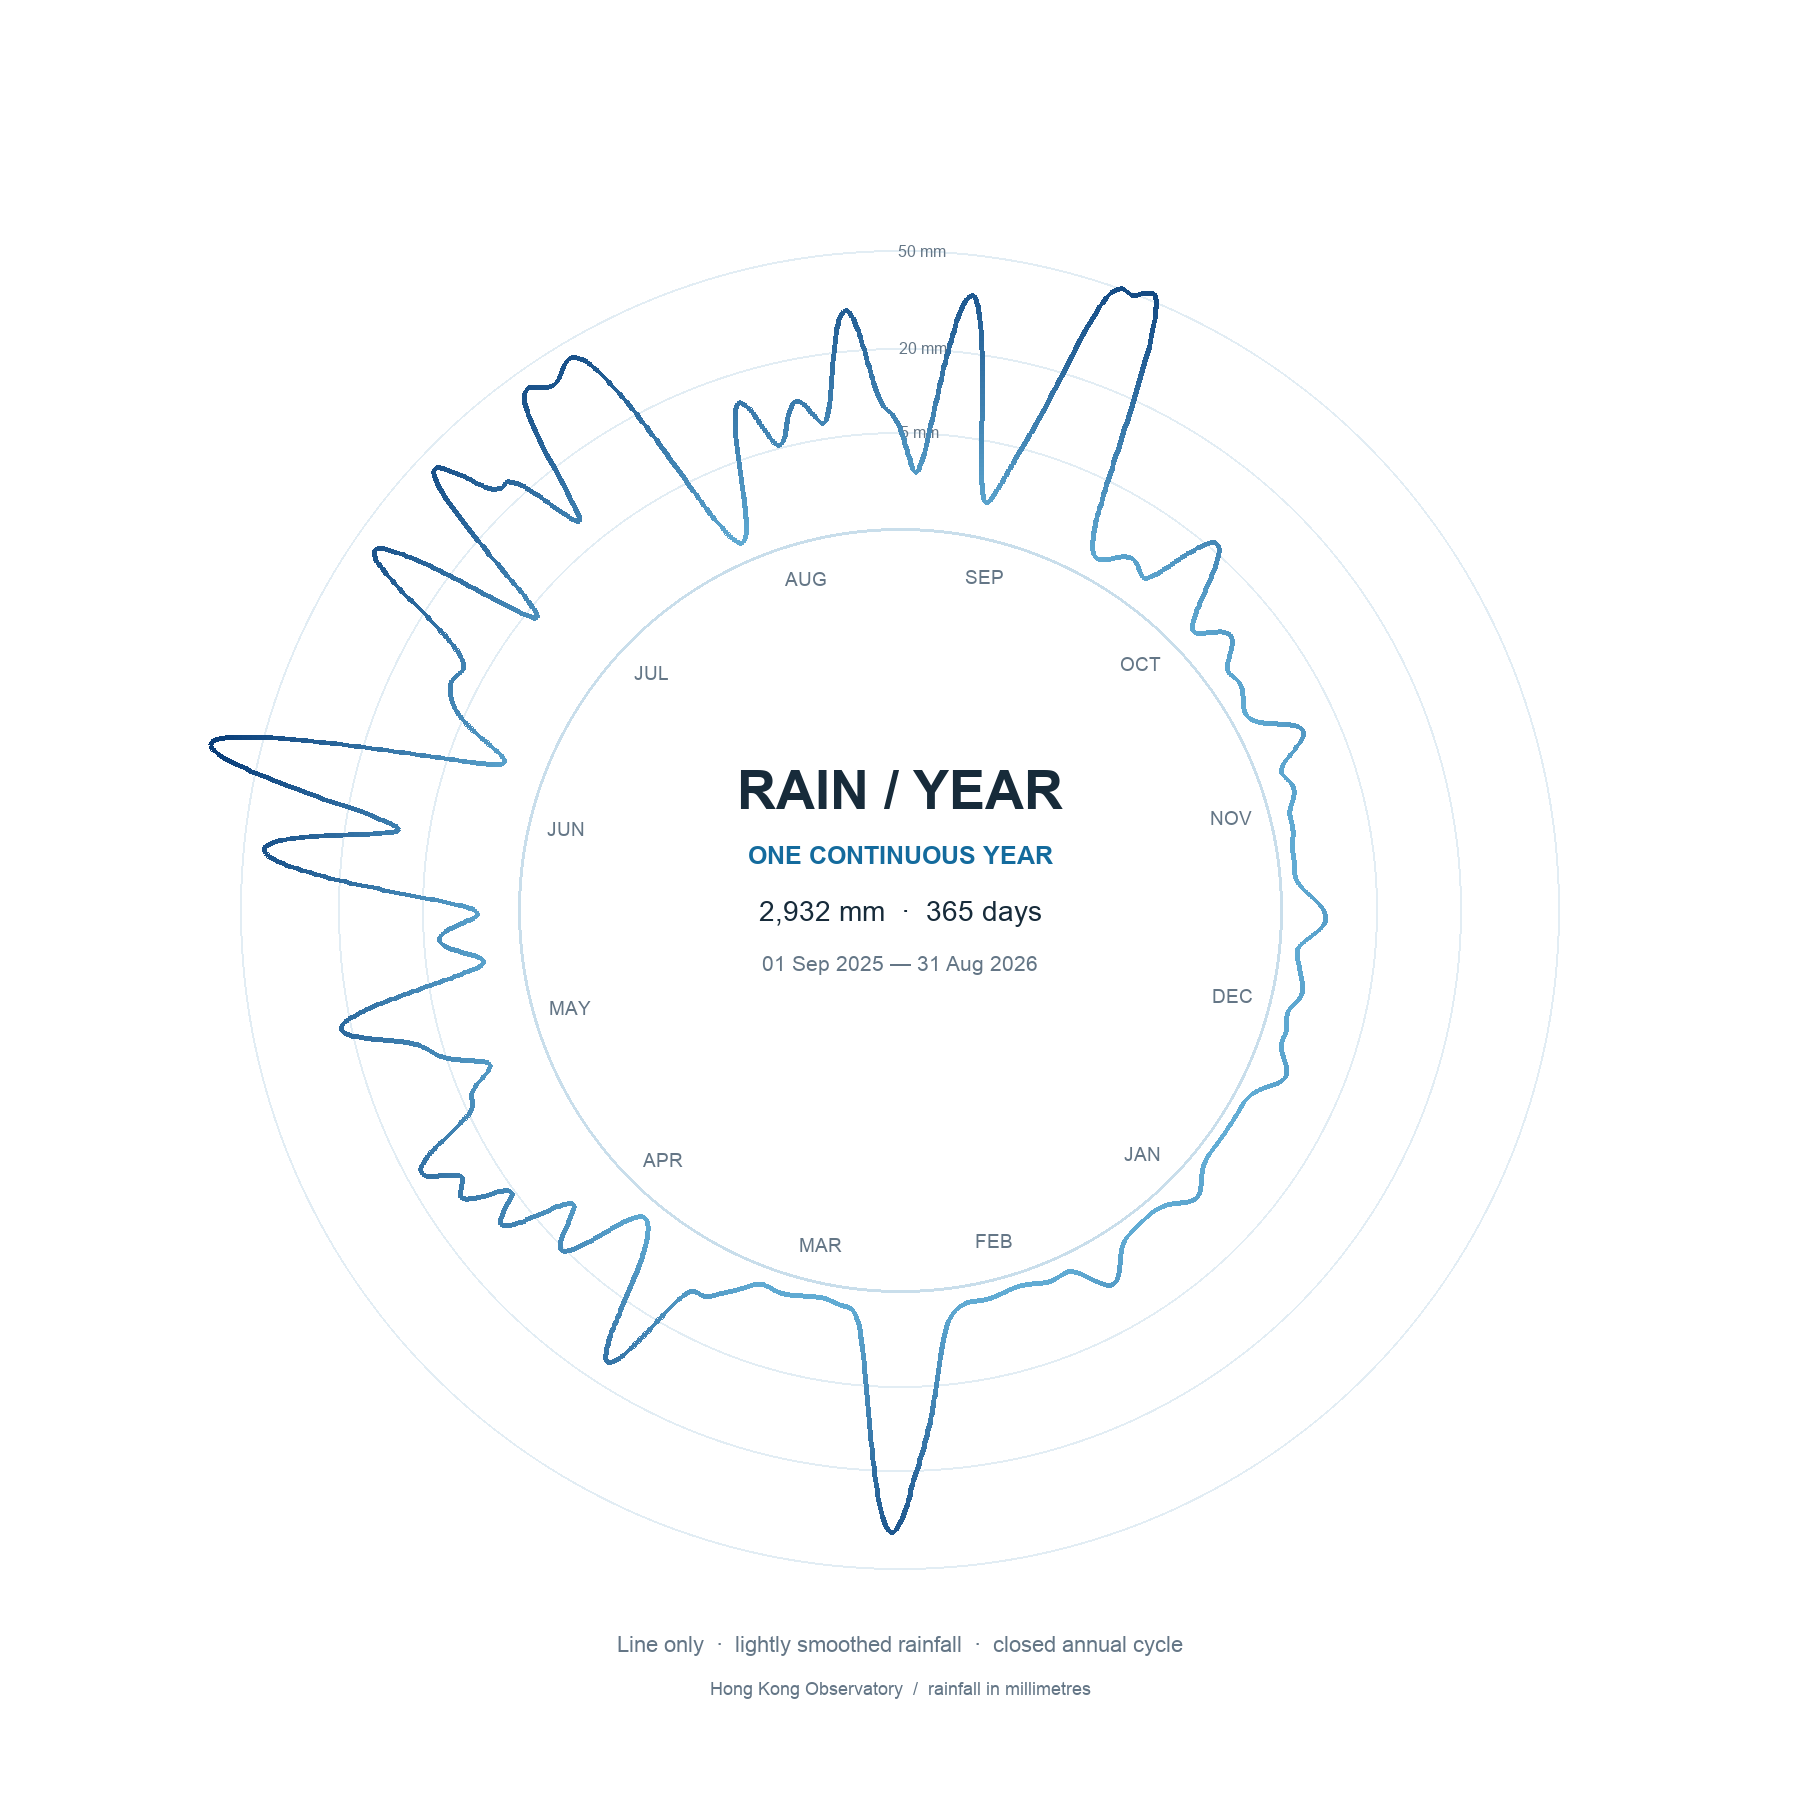
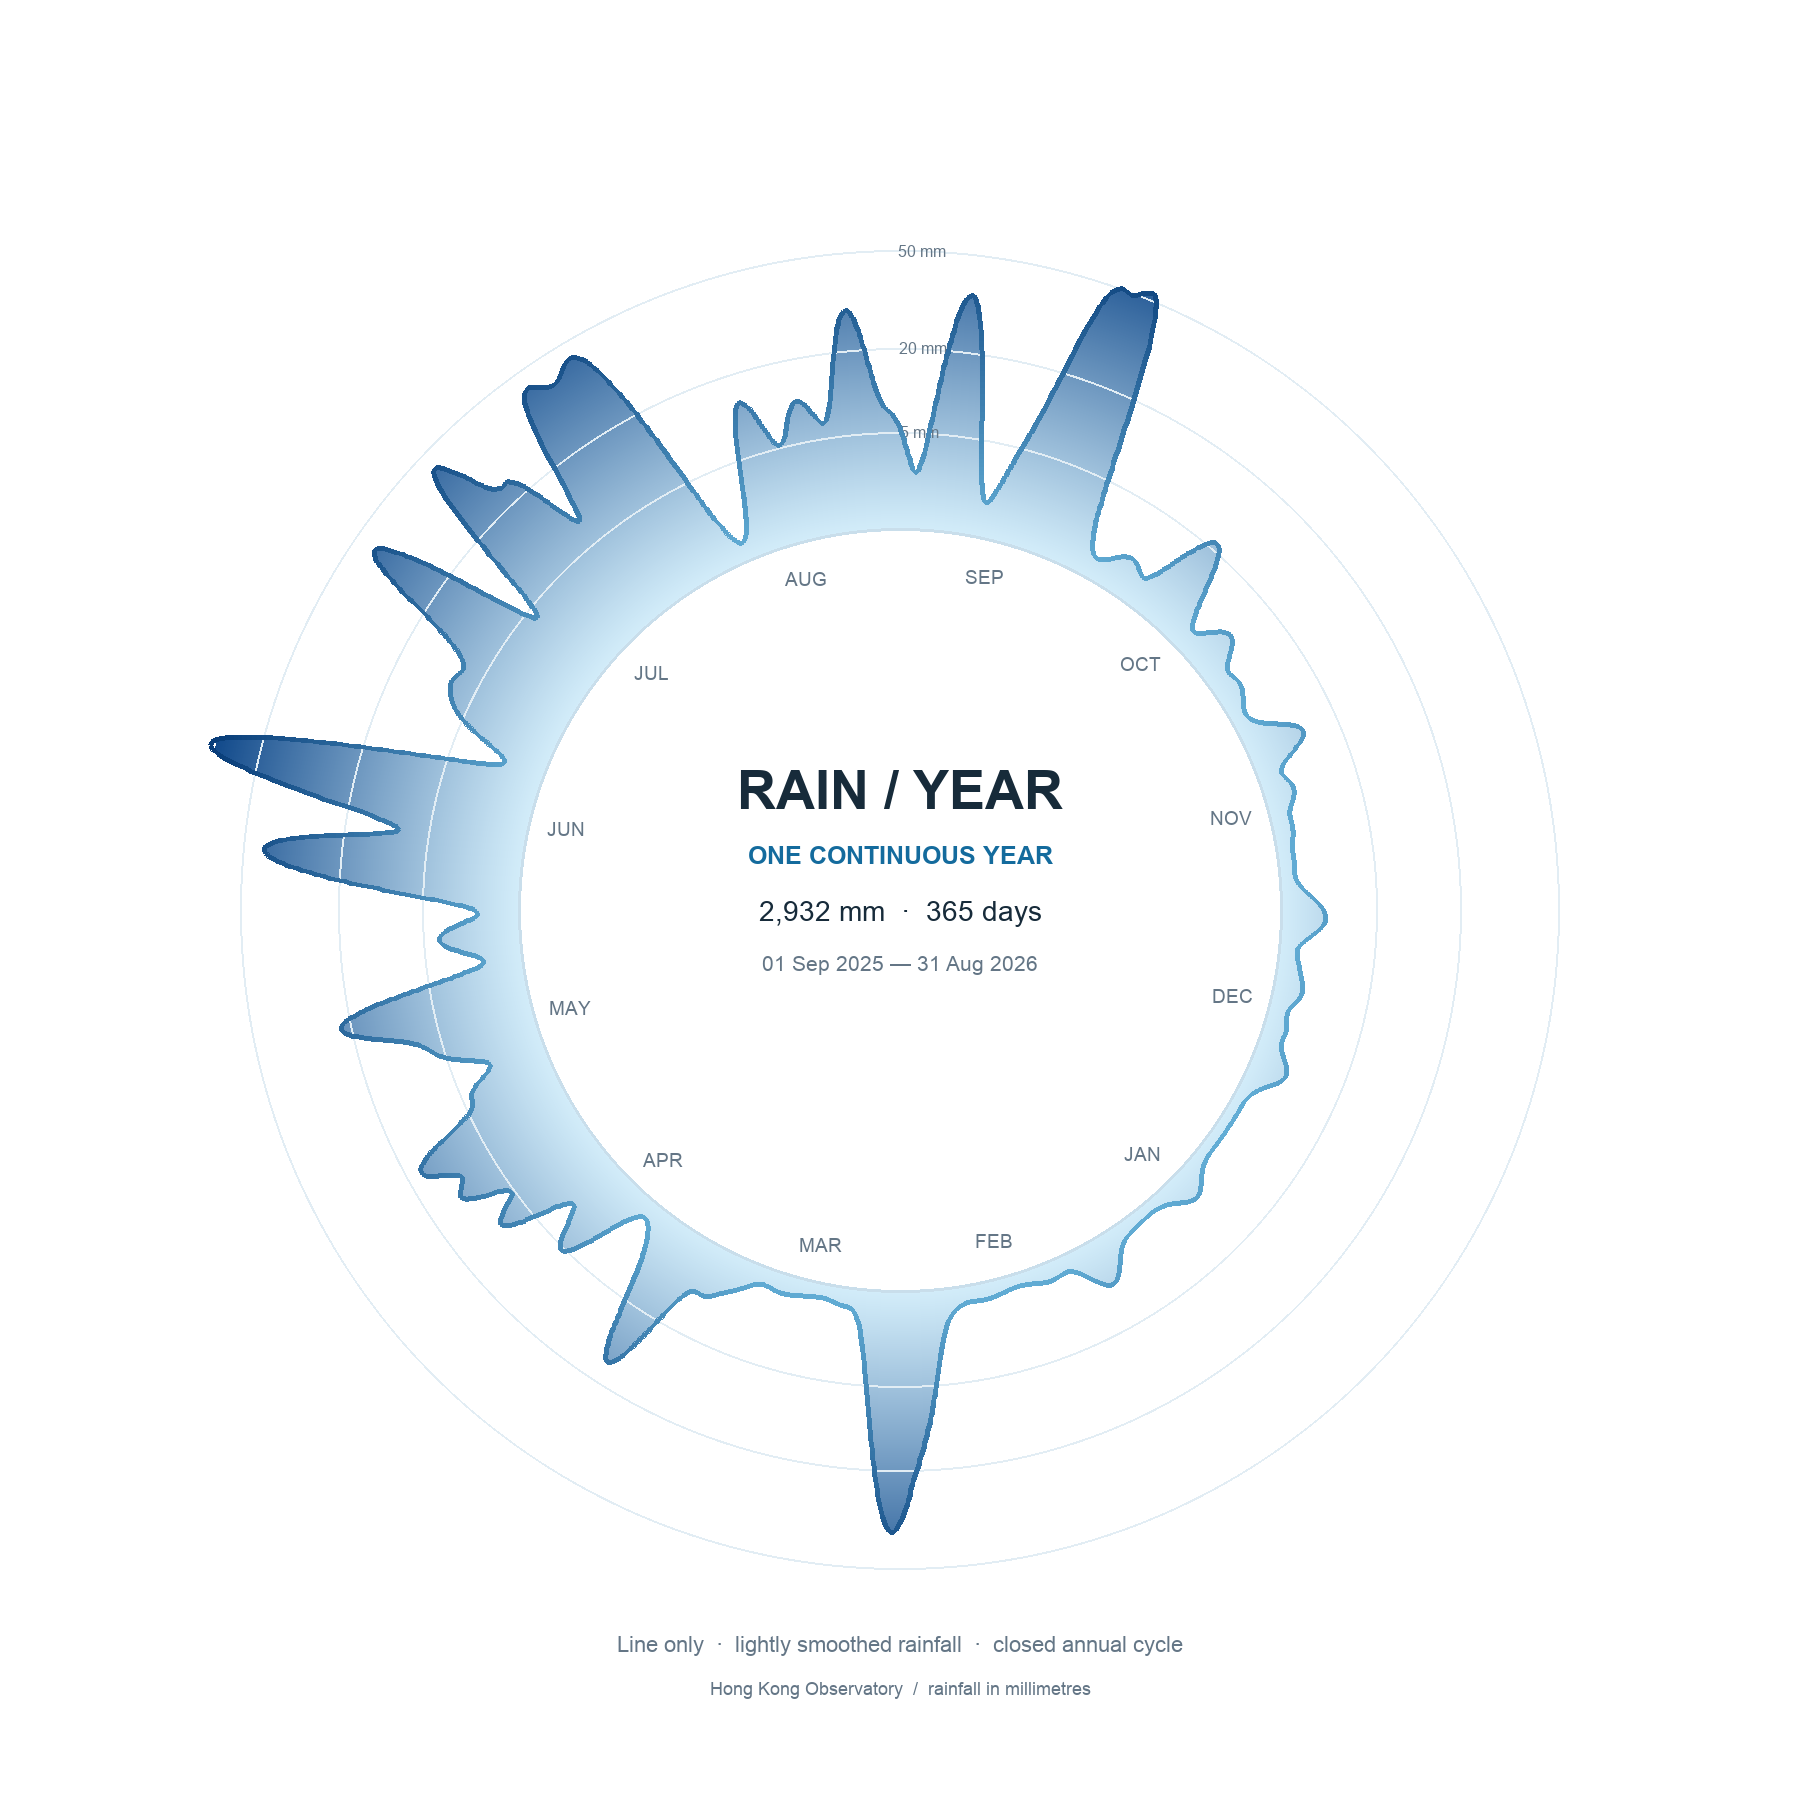
Fill closed rainfall curve with height-based blue gradient

Changed region(s): [[0.1244, 0.1556, 0.7467, 0.84], [0.6222, 0.6222, 0.6844, 0.6844], [0.56, 0.6844, 0.6222, 0.7156]]

diff --git a/line_plot.py b/line_plot.py
@@ -77,7 +77,33 @@ radii = [BASE + 12 + LENGTH * math.sqrt(amount / largest) for amount in averages
 slopes = [(radii[(index + 1) % len(radii)] - radii[(index - 1) % len(radii)]) / 2
           for index in range(len(radii))]
 
+curve_points = [point(0, radii[0])]
+for index in range(len(radii)):
+    next_index = (index + 1) % len(radii)
+    for step in range(1, 11):
+        t = step / 10
+        t2, t3 = t * t, t * t * t
+        radius = ((2 * t3 - 3 * t2 + 1) * radii[index]
+                  + (t3 - 2 * t2 + t) * slopes[index]
+                  + (-2 * t3 + 3 * t2) * radii[next_index]
+                  + (t3 - t2) * slopes[next_index])
+        curve_points.append(point(index + t, radius))
+
 canvas = Image.new("RGB", (SIZE, SIZE), (255, 255, 255))
+fill_mask = Image.new("L", (SIZE, SIZE), 0)
+mask_draw = ImageDraw.Draw(fill_mask)
+mask_draw.polygon(curve_points, fill=255)
+mask_draw.ellipse((CX - BASE, CY - BASE, CX + BASE, CY + BASE), fill=0)
+
+# Colour is tied to radial height: a pale inner ring deepens towards high peaks.
+gradient = Image.new("RGB", (SIZE, SIZE), (255, 255, 255))
+gradient_draw = ImageDraw.Draw(gradient)
+for radius in range(BASE + 12 + LENGTH, BASE - 1, -1):
+    height = (radius - BASE) / (LENGTH + 12)
+    colour = mix((210, 236, 249), (18, 74, 139), height ** 1.1)
+    gradient_draw.ellipse((CX - radius, CY - radius, CX + radius, CY + radius),
+                          fill=colour)
+canvas.paste(gradient, (0, 0), fill_mask)
 draw = ImageDraw.Draw(canvas)
 
 for amount in (5, 20, 50):
@@ -92,21 +118,13 @@ for amount in (5, 20, 50):
 draw.ellipse((CX - BASE, CY - BASE, CX + BASE, CY + BASE),
              outline=(201, 222, 235), width=3)
 
-previous = point(0, radii[0])
-for index in range(len(radii)):
-    next_index = (index + 1) % len(radii)
-    for step in range(1, 11):
-        t = step / 10
-        t2, t3 = t * t, t * t * t
-        radius = ((2 * t3 - 3 * t2 + 1) * radii[index]
-                  + (t3 - 2 * t2 + t) * slopes[index]
-                  + (-2 * t3 + 3 * t2) * radii[next_index]
-                  + (t3 - t2) * slopes[next_index])
-        current = point(index + t, radius)
-        strength = max(0.0, min(1.0, (radius - BASE - 12) / LENGTH))
-        colour = mix((98, 173, 213), (9, 61, 121), strength ** 0.9)
-        draw.line((previous, current), fill=colour, width=5)
-        previous = current
+previous = curve_points[0]
+for current in curve_points[1:]:
+    radius = math.dist(current, (CX, CY))
+    strength = max(0.0, min(1.0, (radius - BASE - 12) / LENGTH))
+    colour = mix((98, 173, 213), (9, 61, 121), strength ** 0.9)
+    draw.line((previous, current), fill=colour, width=5)
+    previous = current
 
 first = 0
 while first < len(days):

diff --git a/PROCESS.md b/PROCESS.md
@@ -2,7 +2,7 @@
 
 ## Tools
 
-I used Codex to inspect the committed Hong Kong Observatory CSV, develop and revise the Python plot, build a month-by-month interactive version, and check the result against the assignment requirements. I wanted a more artistic chart and then asked for a white background and an all-blue scale in which taller marks are darker. For the website, I asked that the circle start empty and reveal a month's bars from their roots when someone hovers nearby. After reviewing a curved-line preview, I chose straight bars and asked Codex to add a Show All option so the whole year can appear at once. I later asked for a separate smooth line connecting the daily bar tips while leaving their measured heights unchanged, then decided to remove that line from the static image and keep its bars clear. I also asked for a second, line-only image: after seeing an overly smooth draft, I requested a more detailed closed curve. I reviewed the generated images and gave feedback on their appearance. Codex used `uv` to run the scripts and the assignment's checker to verify the repository structure.
+I used Codex to inspect the committed Hong Kong Observatory CSV, develop and revise the Python plot, build a month-by-month interactive version, and check the result against the assignment requirements. I wanted a more artistic chart and then asked for a white background and an all-blue scale in which taller marks are darker. For the website, I asked that the circle start empty and reveal a month's bars from their roots when someone hovers nearby. After reviewing a curved-line preview, I chose straight bars and asked Codex to add a Show All option so the whole year can appear at once. I later asked for a separate smooth line connecting the daily bar tips while leaving their measured heights unchanged, then decided to remove that line from the static image and keep its bars clear. I also asked for a second, line-only image: after seeing an overly smooth draft, I requested a more detailed closed curve and then a blue fill that darkens with height. I reviewed the generated images and gave feedback on their appearance. Codex used `uv` to run the scripts and the assignment's checker to verify the repository structure.
 
 ## Kept
 

diff --git a/README.md b/README.md
@@ -16,7 +16,7 @@ The numbers come from the [Hong Kong Observatory's daily rainfall CSV](https://d
 
 This image uses the latest 365 calendar days in the committed file: 1 September 2025 to 31 August 2026. Each thin mark is a day. More rainfall makes the mark longer and its blue darker; pale inner ticks mark dry days. The period totals about 2,932 mm over 190 days with measurable or trace rainfall. The circular format makes clusters and quiet stretches easy to see, but it compresses the numerical scale with a square-root transformation and does not show when during a day the rain fell. It also describes one observing station, not every part of Hong Kong.
 
-The alternative line-only image lightly smooths daily values and joins the last day to the first to make a closed annual form. It is an artistic interpretation, not an additional measurement; for individual daily amounts, use the bars or source CSV.
+The alternative line-only image lightly smooths daily values and joins the last day to the first to make a closed annual form. Its interior fades from pale to deep blue as radial height increases. It is an artistic interpretation, not an additional measurement; for individual daily amounts, use the bars or source CSV.
 
 ## Interactive version
 
